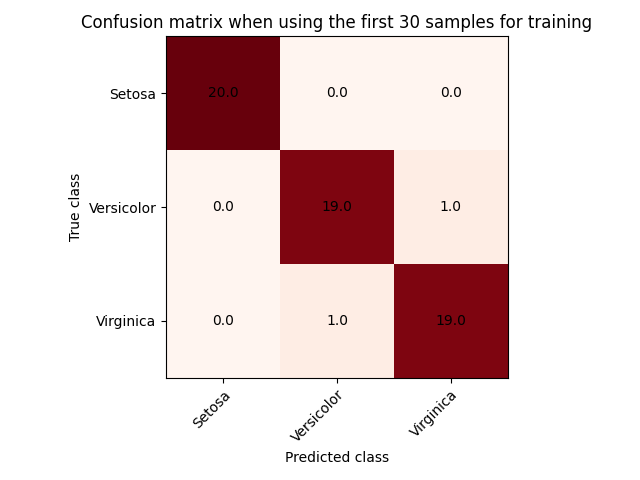
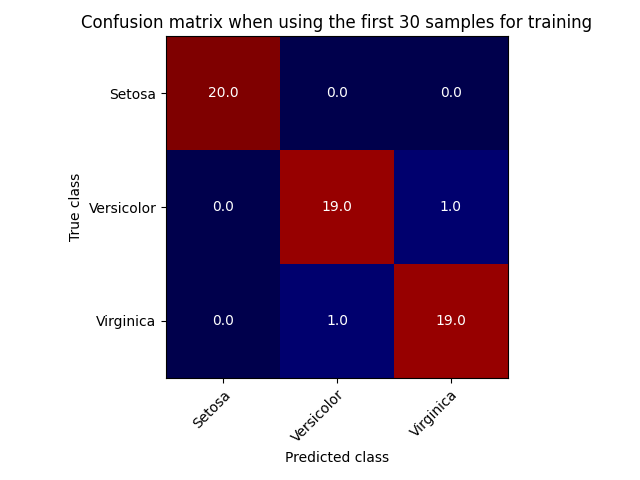
Added some more plots

diff --git a/Iris_TTT4275/iris_task_2.py b/Iris_TTT4275/iris_task_2.py
@@ -143,25 +143,47 @@ for i in range(N):
 
 # Plot the histogram for the features of the three classes
 
-def plot_histograms(features, title):
+def plot_histograms(features, title, name):
     plt.figure()
-    plt.hist(features[0], bins=20, label='Setosa')
-    plt.hist(features[1], bins=20, label='Versicolor')
-    plt.hist(features[2], bins=20, label='Virginica')
+    plt.hist(features[0], bins=19, label='Setosa')
+    plt.hist(features[1], bins=19, label='Versicolor')
+    plt.hist(features[2], bins=19, label='Virginica')
     plt.xlabel('Size (cm)')
     plt.ylabel('Frequency')
     plt.title(title)
     plt.legend()
+    plt.savefig(name)
     plt.show()
 
-# plot_histograms([setosa_features[0], versicolor_features[0], virginica_features[0]], 'Sepal length')
-# plot_histograms([setosa_features[1], versicolor_features[1], virginica_features[1]], 'Sepal width')
-# plot_histograms([setosa_features[2], versicolor_features[2], virginica_features[2]], 'Petal length')
-# plot_histograms([setosa_features[3], versicolor_features[3], virginica_features[3]], 'Petal width')
+# plot_histograms([setosa_features[0], versicolor_features[0], virginica_features[0]], 'Sepal length', 'Plots/Iris_Foerste_Utkast/sepallength.png')
+# plot_histograms([setosa_features[1], versicolor_features[1], virginica_features[1]], 'Sepal width', 'Plots/Iris_Foerste_Utkast/sepalwidth.png')
+# plot_histograms([setosa_features[2], versicolor_features[2], virginica_features[2]], 'Petal length', 'Plots/Iris_Foerste_Utkast/petallength.png')
+# plot_histograms([setosa_features[3], versicolor_features[3], virginica_features[3]], 'Petal width', 'Plots/Iris_Foerste_Utkast/petalwidth.png')
 
 N_TRAINING = 30
 
 ### ------------------------------
+
+def plotting_confusion_matrix(confusion_matrix, title, name):
+    # Plotting the confusion matrix
+    fig, ax = plt.subplots()
+    im = ax.imshow(confusion_matrix, cmap="seismic")
+    ax.set_xticks(np.arange(N_CLASSES))
+    ax.set_yticks(np.arange(N_CLASSES))
+    ax.set_xticklabels(["Setosa", "Versicolor", "Virginica"])
+    ax.set_yticklabels(["Setosa", "Versicolor", "Virginica"])
+    plt.setp(ax.get_xticklabels(), rotation=45, ha="right",
+                rotation_mode="anchor")
+    for i in range(N_CLASSES):
+        for j in range(N_CLASSES):
+            text = ax.text(j, i, confusion_matrix[i, j],
+                        ha="center", va="center", color="w")
+    ax.set_title(title)
+    ax.set_xlabel("Predicted class")
+    ax.set_ylabel("True class")
+    fig.tight_layout()
+    plt.savefig(name)
+    plt.show()
 
 def three_features():
     # Creating the training and testing sets
@@ -182,6 +204,8 @@ def three_features():
     print(f"Wrong predictions for 3 features: {wrong_3_features}")
     print(f"Error rate: {wrong_3_features/len(testing_set_3_features)}\n")
 
+    plotting_confusion_matrix(confusion_matrix_3_features, "Confusion matrix for 3 features", "Plots/Iris_Foerste_Utkast/confusion_matrix_3_features.png")
+
 ### ------------------------------
 
 def two_features():
@@ -201,6 +225,8 @@ def two_features():
     print(f"Wrong predictions for 2 features: {wrong_2_features}")
     print(f"Error rate: {wrong_2_features/len(testing_set_2_features)}\n")
 
+    plotting_confusion_matrix(confusion_matrix_2_features, "Confusion matrix for 2 features", "Plots/Iris_Foerste_Utkast/confusion_matrix_2_features.png")
+
 ### ------------------------------
 
 def one_feature():
@@ -219,6 +245,8 @@ def one_feature():
     print(f"Confusion matrix for 1 feature:\n{confusion_matrix_1_features}")
     print(f"Wrong predictions for 1 feature: {wrong_1_features}")
     print(f"Error rate: {wrong_1_features/len(testing_set_1_features)}\n")
+
+    plotting_confusion_matrix(confusion_matrix_1_features, "Confusion matrix for 1 feature", "Plots/Iris_Foerste_Utkast/confusion_matrix_1_features.png")
 
 ### ------------------------------
 

diff --git a/Iris_TTT4275/iris_task_1.py b/Iris_TTT4275/iris_task_1.py
@@ -122,6 +122,27 @@ def testing(testing_set, weights):
             wrong += 1
     return confusion_matrix, wrong
 
+def plotting_confusion_matrix(confusion_matrix, title, name):
+    # Plotting the confusion matrix
+    fig, ax = plt.subplots()
+    im = ax.imshow(confusion_matrix, cmap="seismic")
+    ax.set_xticks(np.arange(N_CLASSES))
+    ax.set_yticks(np.arange(N_CLASSES))
+    ax.set_xticklabels(["Setosa", "Versicolor", "Virginica"])
+    ax.set_yticklabels(["Setosa", "Versicolor", "Virginica"])
+    plt.setp(ax.get_xticklabels(), rotation=45, ha="right",
+                rotation_mode="anchor")
+    for i in range(N_CLASSES):
+        for j in range(N_CLASSES):
+            text = ax.text(j, i, confusion_matrix[i, j],
+                        ha="center", va="center", color="w")
+    ax.set_title(title)
+    ax.set_xlabel("Predicted class")
+    ax.set_ylabel("True class")
+    fig.tight_layout()
+    plt.savefig(name)
+    plt.show()
+
 # Using the first 30 samples for training and the last 20 for testing
 def training_30_first_samples():
     N_TRAINING = 30
@@ -146,25 +167,7 @@ def training_30_first_samples():
     error_rate = wrong/len(testing_set)
     print(f"Error rate: {error_rate}\n")
 
-    # Plotting the confusion matrix
-    fig, ax = plt.subplots()
-    im = ax.imshow(confusion_matrix, cmap="Reds")
-    ax.set_xticks(np.arange(N_CLASSES))
-    ax.set_yticks(np.arange(N_CLASSES))
-    ax.set_xticklabels(["Setosa", "Versicolor", "Virginica"])
-    ax.set_yticklabels(["Setosa", "Versicolor", "Virginica"])
-    plt.setp(ax.get_xticklabels(), rotation=45, ha="right",
-                rotation_mode="anchor")
-    for i in range(N_CLASSES):
-        for j in range(N_CLASSES):
-            text = ax.text(j, i, confusion_matrix[i, j],
-                        ha="center", va="center", color="black")
-    ax.set_title("Confusion matrix when using the first 30 samples for training")
-    ax.set_xlabel("Predicted class")
-    ax.set_ylabel("True class")
-    fig.tight_layout()
-    plt.savefig("Plots/Iris_Foerste_Utkast/Confusion_matrix_30_first_samples.png")
-    plt.show()
+    plotting_confusion_matrix(confusion_matrix, "Confusion matrix when using the first 30 samples for training", "Plots/Iris_Foerste_Utkast/Confusion_matrix_30_first_samples.png")
 
 
 # Using the last 30 samples for training and the first 20 for testing
@@ -191,25 +194,7 @@ def training_30_last_samples():
     error_rate = wrong/len(testing_set)
     print(f"Error rate: {error_rate}\n")
 
-        # Plotting the confusion matrix
-    fig, ax = plt.subplots()
-    im = ax.imshow(confusion_matrix, cmap="Reds")
-    ax.set_xticks(np.arange(N_CLASSES))
-    ax.set_yticks(np.arange(N_CLASSES))
-    ax.set_xticklabels(["Setosa", "Versicolor", "Virginica"])
-    ax.set_yticklabels(["Setosa", "Versicolor", "Virginica"])
-    plt.setp(ax.get_xticklabels(), rotation=45, ha="right",
-                rotation_mode="anchor")
-    for i in range(N_CLASSES):
-        for j in range(N_CLASSES):
-            text = ax.text(j, i, confusion_matrix[i, j],
-                        ha="center", va="center", color="black")
-    ax.set_title("Confusion matrix when using the last 30 samples for training")
-    ax.set_xlabel("Predicted class")
-    ax.set_ylabel("True class")
-    fig.tight_layout()
-    plt.savefig("Plots/Iris_Foerste_Utkast/Confusion_matrix_30_last_samples.png")
-    plt.show()
+    plotting_confusion_matrix(confusion_matrix, "Confusion matrix when using the last 30 samples for training", "Plots/Iris_Foerste_Utkast/Confusion_matrix_30_last_samples.png")
 
 training_30_first_samples()
 training_30_last_samples()
